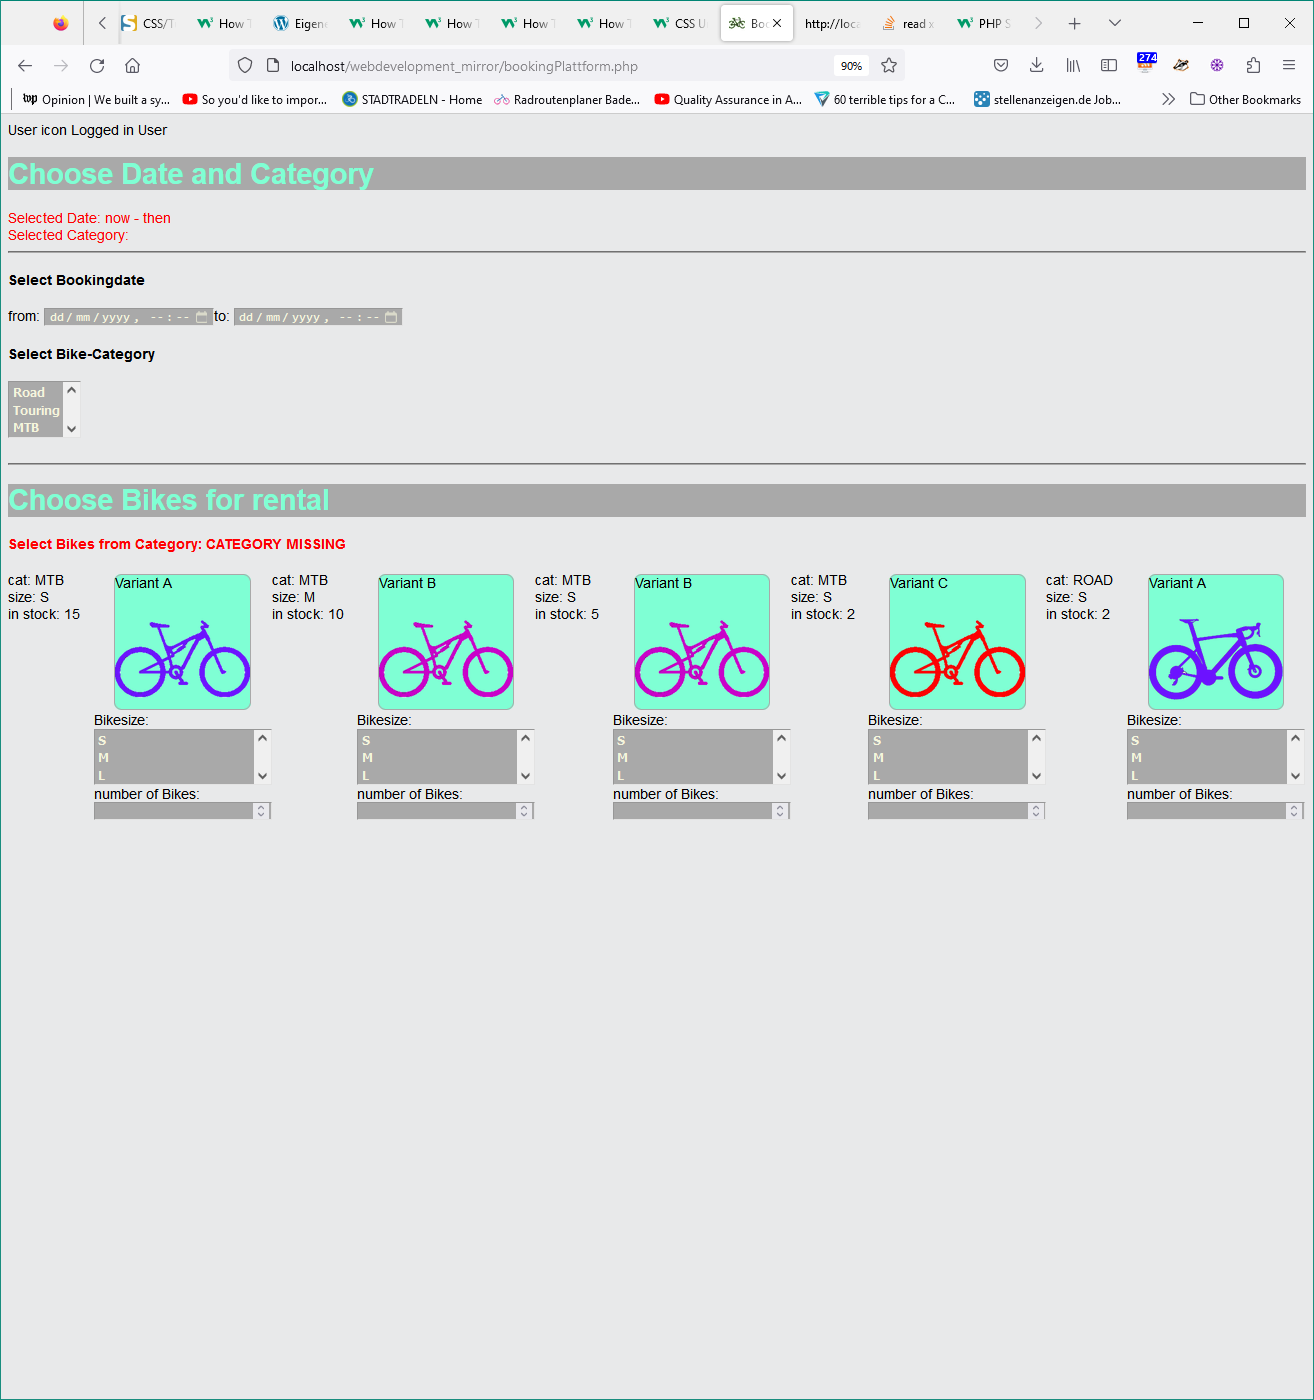
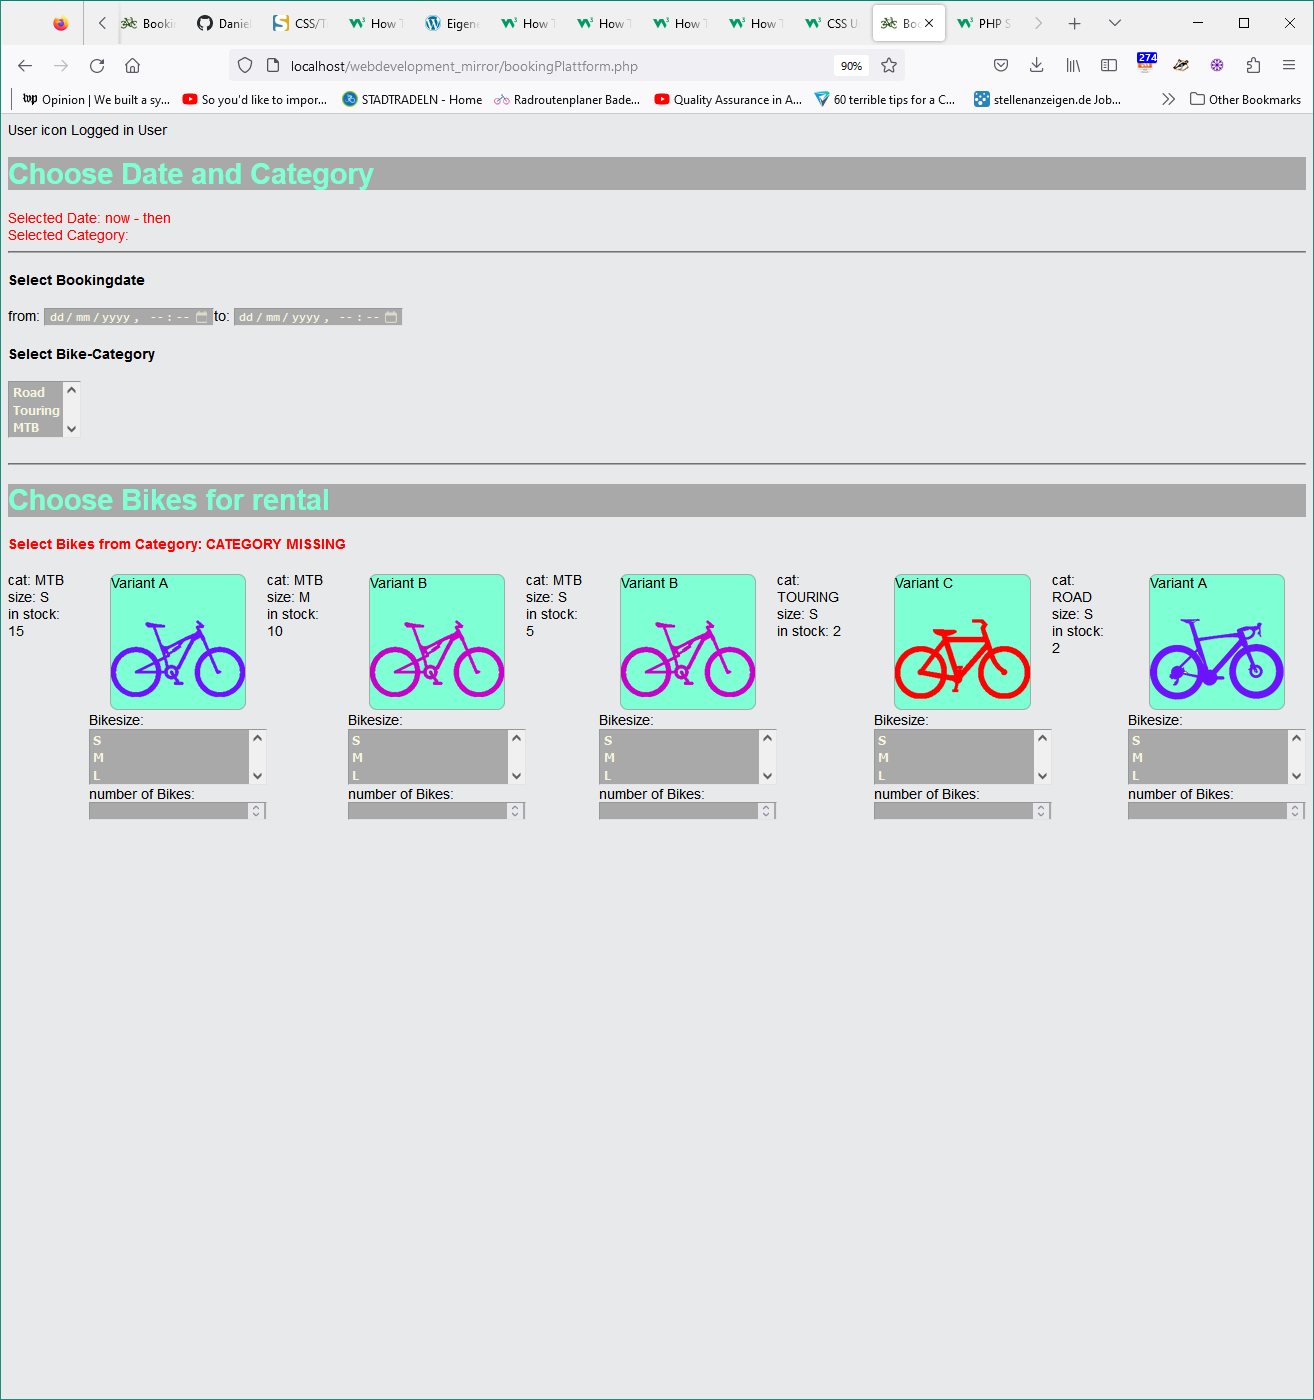
fix wrong condition in bike cat evaluation

diff --git a/bookingPlattform.php b/bookingPlattform.php
@@ -109,7 +109,7 @@
                 {
                     $imgSrc = "./stub_mtb_category.png";
                 }
-                elseif($variant == "TOURING")
+                elseif($category == "TOURING")
                 {
                     $imgSrc = "./stub_touring_category.png";
                 }
